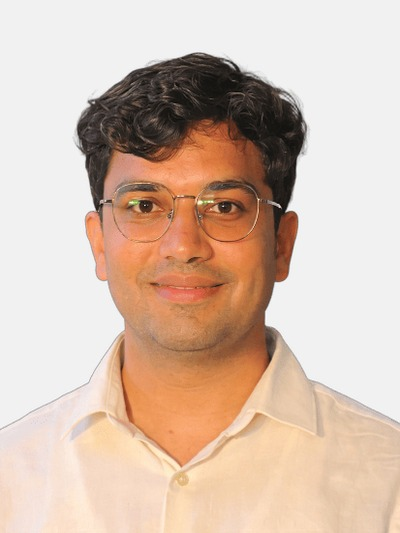
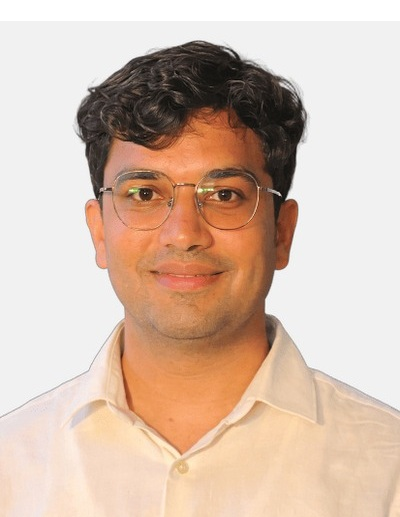
About Page

diff --git a/frontend/about.html b/frontend/about.html
@@ -56,43 +56,146 @@
     </section>
 
     <!-- ── Team ──────────────────────────────────────────────────────────── -->
-    <section class="lc-section">
+    <section class="lc-section lc-team-section">
         <div class="lc-container">
             <span class="lc-eyebrow-h">Team</span>
-            <h2 class="lc-h2">The people behind CarbonKrishi.</h2>
+            <h2 class="lc-h2" style="text-align: center;">Project Team Members</h2>
             <p class="lc-section-lede">Researchers, engineers, and agronomists working to decarbonise Indian rice.</p>
 
-            <div class="lc-team-grid">
-                <div class="lc-team-card">
-                    <div class="lc-team-img">
-                        <img src="/media/team/person-1.png" alt="Dr Ambika Selvaraj" />
+            <div style="margin-top: 1.5rem;">
+                <div class="lc-team-grid lc-team-grid-main" style="margin-top: 1rem;">
+                    <div class="lc-team-card">
+                        <div class="lc-team-img">
+                            <img src="/media/team/person-2.jpg" alt="Rahul Kumar Yadav" />
+                        </div>
+                        <h4>Rahul Kumar Yadav</h4>
+                        <p class="lc-team-role">PhD Researcher</p>
+                        <div class="lc-team-social">
+                            <a href="https://www.linkedin.com/in/rahul-kumar-yadav-894498214/" target="_blank"
+                                rel="noopener noreferrer" aria-label="Rahul Kumar Yadav LinkedIn">
+                                <svg width="14" height="14" fill="currentColor" viewBox="0 0 24 24">
+                                    <path
+                                        d="M19 0h-14c-2.761 0-5 2.239-5 5v14c0 2.761 2.239 5 5 5h14c2.762 0 5-2.239 5-5v-14c0-2.761-2.238-5-5-5zm-11 19h-3v-11h3v11zm-1.5-12.268c-.966 0-1.75-.79-1.75-1.764s.784-1.764 1.75-1.764 1.75.79 1.75 1.764-.783 1.764-1.75 1.764zm13.5 12.268h-3v-5.604c0-3.368-4-3.113-4 0v5.604h-3v-11h3v1.765c1.396-2.586 7-2.777 7 2.476v6.759z" />
+                                </svg>
+                            </a>
+                            <a href="mailto:cc24resch01001@iith.ac.in" class="lc-copy-email"
+                                data-email="cc24resch01001@iith.ac.in" aria-label="Rahul Kumar Yadav Email">
+                                <svg width="14" height="14" fill="none" stroke="currentColor" stroke-width="2"
+                                    stroke-linecap="round" stroke-linejoin="round" viewBox="0 0 24 24">
+                                    <path
+                                        d="M4 4h16c1.1 0 2 .9 2 2v12c0 1.1-.9 2-2 2H4c-1.1 0-2-.9-2-2V6c0-1.1.9-2 2-2z">
+                                    </path>
+                                    <polyline points="22,6 12,13 2,6"></polyline>
+                                </svg>
+                            </a>
+                        </div>
+                        <p class="lc-team-contrib">Contribution: Managed institutional collaborations with ICAR-IRRI and
+                            KVK, led primary data sourcing, and served as the key contact for field-level data
+                            collection.</p>
                     </div>
-                    <h4>Dr Ambika Selvaraj</h4>
-                    <p class="lc-team-role">Assistant Professor<br />Team Lead</p>
-                </div>
 
-                <div class="lc-team-card">
-                    <div class="lc-team-img">
-                        <img src="/media/team/person-2.jpg" alt="Rahul Kumar Yadav" />
+                    <div class="lc-team-card">
+                        <div class="lc-team-img">
+                            <img src="/media/team/person-3.png" alt="S C Vishweshvaran" />
+                        </div>
+                        <h4>S C Vishweshvaran</h4>
+                        <p class="lc-team-role">LCA Researcher</p>
+                        <div class="lc-team-social">
+                            <a href="https://www.linkedin.com/in/vishweshvaran-s-c-41b3762ab/" target="_blank"
+                                rel="noopener noreferrer" aria-label="S C Vishweshvaran LinkedIn">
+                                <svg width="14" height="14" fill="currentColor" viewBox="0 0 24 24">
+                                    <path
+                                        d="M19 0h-14c-2.761 0-5 2.239-5 5v14c0 2.761 2.239 5 5 5h14c2.762 0 5-2.239 5-5v-14c0-2.761-2.238-5-5-5zm-11 19h-3v-11h3v11zm-1.5-12.268c-.966 0-1.75-.79-1.75-1.764s.784-1.764 1.75-1.764 1.75.79 1.75 1.764-.783 1.764-1.75 1.764zm13.5 12.268h-3v-5.604c0-3.368-4-3.113-4 0v5.604h-3v-11h3v1.765c1.396-2.586 7-2.777 7 2.476v6.759z" />
+                                </svg>
+                            </a>
+                            <a href="mailto:scvishweshvaran@gmail.com" class="lc-copy-email"
+                                data-email="scvishweshvaran@gmail.com" aria-label="S C Vishweshvaran Email">
+                                <svg width="14" height="14" fill="none" stroke="currentColor" stroke-width="2"
+                                    stroke-linecap="round" stroke-linejoin="round" viewBox="0 0 24 24">
+                                    <path
+                                        d="M4 4h16c1.1 0 2 .9 2 2v12c0 1.1-.9 2-2 2H4c-1.1 0-2-.9-2-2V6c0-1.1.9-2 2-2z">
+                                    </path>
+                                    <polyline points="22,6 12,13 2,6"></polyline>
+                                </svg>
+                            </a>
+                        </div>
+                        <p class="lc-team-contrib">Contribution: Conceptualized the product's framework, designed the
+                            Life Cycle Assessment (LCA) systems for rice cultivation, and developed the website’s
+                            analytical tools and technical backbone.</p>
                     </div>
-                    <h4>Rahul Kumar Yadav</h4>
-                    <p class="lc-team-role">PhD Researcher<br />Team Member</p>
-                </div>
 
-                <div class="lc-team-card">
-                    <div class="lc-team-img">
-                        <img src="/media/team/person-3.png" alt="Vishwa S" />
+                    <div class="lc-team-card">
+                        <div class="lc-team-img">
+                            <img src="/media/team/person-4.png" alt="Jayesh Singh" />
+                        </div>
+                        <h4>Jayesh Singh</h4>
+                        <p class="lc-team-role">PhD Researcher</p>
+                        <div class="lc-team-social">
+                            <a href="https://www.linkedin.com/in/jayeshsingh1/" target="_blank"
+                                rel="noopener noreferrer" aria-label="Jayesh Singh LinkedIn">
+                                <svg width="14" height="14" fill="currentColor" viewBox="0 0 24 24">
+                                    <path
+                                        d="M19 0h-14c-2.761 0-5 2.239-5 5v14c0 2.761 2.239 5 5 5h14c2.762 0 5-2.239 5-5v-14c0-2.761-2.238-5-5-5zm-11 19h-3v-11h3v11zm-1.5-12.268c-.966 0-1.75-.79-1.75-1.764s.784-1.764 1.75-1.764 1.75.79 1.75 1.764-.783 1.764-1.75 1.764zm13.5 12.268h-3v-5.604c0-3.368-4-3.113-4 0v5.604h-3v-11h3v1.765c1.396-2.586 7-2.777 7 2.476v6.759z" />
+                                </svg>
+                            </a>
+                            <a href="mailto:id25resch01003@iith.ac.in" class="lc-copy-email"
+                                data-email="id25resch01003@iith.ac.in" aria-label="Jayesh Singh Email">
+                                <svg width="14" height="14" fill="none" stroke="currentColor" stroke-width="2"
+                                    stroke-linecap="round" stroke-linejoin="round" viewBox="0 0 24 24">
+                                    <path
+                                        d="M4 4h16c1.1 0 2 .9 2 2v12c0 1.1-.9 2-2 2H4c-1.1 0-2-.9-2-2V6c0-1.1.9-2 2-2z">
+                                    </path>
+                                    <polyline points="22,6 12,13 2,6"></polyline>
+                                </svg>
+                            </a>
+                        </div>
+                        <p class="lc-team-contrib">Contribution: Enhanced the project by transforming it into a
+                            professional-grade platform with an engaging user interface, integrated dashboards, and
+                            refined website design.</p>
                     </div>
-                    <h4>Vishwa S</h4>
-                    <p class="lc-team-role">LCA Researcher<br />Team Member</p>
                 </div>
+            </div>
 
-                <div class="lc-team-card">
-                    <div class="lc-team-img">
-                        <img src="/media/team/person-4.png" alt="Jayesh Singh" />
+            <div style="margin-top: 2rem;">
+                <h2 class="lc-h2" style="text-align: center;">Project Guide</h2>
+                <div class="lc-team-grid lc-team-grid-guide" style="margin-top: 1rem;">
+                    <div class="lc-team-card">
+                        <div class="lc-team-img">
+                            <img src="/media/team/person-1.png" alt="Dr Ambika Selvaraj" />
+                        </div>
+                        <h4>Dr Ambika Selvaraj</h4>
+                        <p class="lc-team-role">Assistant Professor<br />IIT Hyderabad</p>
+                        <div class="lc-team-social">
+                            <a href="https://www.linkedin.com/in/drambikas/" target="_blank" rel="noopener noreferrer"
+                                aria-label="Dr Ambika Selvaraj LinkedIn">
+                                <svg width="14" height="14" fill="currentColor" viewBox="0 0 24 24">
+                                    <path
+                                        d="M19 0h-14c-2.761 0-5 2.239-5 5v14c0 2.761 2.239 5 5 5h14c2.762 0 5-2.239 5-5v-14c0-2.761-2.238-5-5-5zm-11 19h-3v-11h3v11zm-1.5-12.268c-.966 0-1.75-.79-1.75-1.764s.784-1.764 1.75-1.764 1.75.79 1.75 1.764-.783 1.764-1.75 1.764zm13.5 12.268h-3v-5.604c0-3.368-4-3.113-4 0v5.604h-3v-11h3v1.765c1.396-2.586 7-2.777 7 2.476v6.759z" />
+                                </svg>
+                            </a>
+                            <a href="https://sites.google.com/ce.iith.ac.in/iith-ambika" target="_blank"
+                                rel="noopener noreferrer" aria-label="Dr Ambika Selvaraj Website">
+                                <svg width="14" height="14" fill="none" stroke="currentColor" stroke-width="2"
+                                    stroke-linecap="round" stroke-linejoin="round" viewBox="0 0 24 24">
+                                    <circle cx="12" cy="12" r="10"></circle>
+                                    <line x1="2" y1="12" x2="22" y2="12"></line>
+                                    <path
+                                        d="M12 2a15.3 15.3 0 0 1 4 10 15.3 15.3 0 0 1-4 10 15.3 15.3 0 0 1-4-10 15.3 15.3 0 0 1 4-10z">
+                                    </path>
+                                </svg>
+                            </a>
+                            <a href="mailto:ambika@ce.iith.ac.in" class="lc-copy-email"
+                                data-email="ambika@ce.iith.ac.in" aria-label="Dr Ambika Selvaraj Email">
+                                <svg width="14" height="14" fill="none" stroke="currentColor" stroke-width="2"
+                                    stroke-linecap="round" stroke-linejoin="round" viewBox="0 0 24 24">
+                                    <path
+                                        d="M4 4h16c1.1 0 2 .9 2 2v12c0 1.1-.9 2-2 2H4c-1.1 0-2-.9-2-2V6c0-1.1.9-2 2-2z">
+                                    </path>
+                                    <polyline points="22,6 12,13 2,6"></polyline>
+                                </svg>
+                            </a>
+                        </div>
                     </div>
-                    <h4>Jayesh Singh</h4>
-                    <p class="lc-team-role">PhD Researcher<br />Team Member</p>
                 </div>
             </div>
         </div>

diff --git a/frontend/landing.css b/frontend/landing.css
@@ -630,7 +630,7 @@ img {
   overflow: hidden;
   /* Top padding clears the fixed-position floating nav pill (~58px tall
        + ~1.25rem top offset). */
-  padding: clamp(6rem, 9vw, 8rem) 0 clamp(2rem, 4vw, 3rem);
+  padding: clamp(6rem, 9vw, 8rem) 0 0;
   text-align: center;
 }
 .lc-page-head::before {
@@ -1151,8 +1151,40 @@ img {
   gap: clamp(1.25rem, 2.5vw, 2rem);
   margin-top: clamp(1.5rem, 3vw, 2.5rem);
 }
+.lc-team-section .lc-container {
+  text-align: center;
+}
+.lc-team-section .lc-section-lede {
+  margin-left: auto;
+  margin-right: auto;
+}
+.lc-team-section .lc-h3 {
+  text-align: center;
+  margin-left: auto;
+  margin-right: auto;
+}
+.lc-team-section .lc-team-grid-main {
+  grid-template-columns: repeat(3, minmax(0, 1fr));
+  max-width: 980px;
+  margin-left: auto;
+  margin-right: auto;
+  justify-items: center;
+}
+.lc-team-section .lc-team-grid-guide {
+  grid-template-columns: minmax(0, 280px);
+  max-width: 280px;
+  margin-left: auto;
+  margin-right: auto;
+  justify-items: center;
+}
+.lc-team-section .lc-team-card {
+  width: 100%;
+}
 .lc-team-card {
   text-align: center;
+  display: flex;
+  flex-direction: column;
+  height: 100%;
 }
 .lc-team-img {
   width: 100%;
@@ -1186,12 +1218,60 @@ img {
   font-size: 0.85rem;
   color: #5a706a;
 }
-
-:root[data-theme="dark"] .lc-team-card h4 {
-  color: #ffffff;
+.lc-team-social {
+  margin-top: 0.75rem;
+  display: flex;
+  justify-content: center;
+  gap: 0.8rem;
 }
-:root[data-theme="dark"] .lc-team-role {
-  color: rgba(255, 255, 255, 0.55);
+.lc-team-social a {
+  display: inline-flex;
+  align-items: center;
+  justify-content: center;
+  width: 32px;
+  height: 32px;
+  background: rgba(15, 118, 110, 0.08);
+  border-radius: 50%;
+  color: var(--lc-leaf-2);
+  font-size: 0.9rem;
+  transition: all 0.2s ease;
+}
+.lc-team-social a:hover {
+  background: var(--lc-leaf-2);
+  color: white;
+  transform: translateY(-2px);
+}
+:root[data-theme="dark"] .lc-team-social a {
+  background: rgba(255, 255, 255, 0.1);
+  color: var(--lc-leaf-3);
+}
+:root[data-theme="dark"] .lc-team-social a:hover {
+  background: var(--lc-leaf-3);
+  color: #052424;
+}
+.lc-team-contrib {
+  margin: 1.1rem 0 0;
+  font-family: "SuisseIntl", "Inter", system-ui, sans-serif !important;
+  font-size: 0.85rem;
+  line-height: 1.6;
+  color: #2f463f;
+  text-align: center;
+  hyphens: auto;
+  overflow-wrap: break-word;
+  width: 100%;
+  padding: 0.85rem 1rem;
+  background: #f0f7f3;
+  border-left: 3px solid var(--lc-leaf-2);
+  border-radius: 0 12px 12px 0;
+  box-shadow: inset 0 0 10px rgba(15, 118, 110, 0.03);
+  flex: 1;
+}
+
+:root[data-theme="dark"] .lc-team-contrib {
+  background: rgba(255, 255, 255, 0.04);
+  color: rgba(255, 255, 255, 0.75);
+  border-left-color: var(--lc-leaf-3);
+  box-shadow: none;
 }
 :root[data-theme="dark"] .lc-team-img {
   background: rgba(255, 255, 255, 0.06);
@@ -1264,17 +1344,48 @@ img {
 /* ── Final CTA section ───────────────────────────────────────────────── */
 .lc-final-cta {
   margin: clamp(3rem, 6vw, 5rem) 0;
-  background: linear-gradient(135deg, var(--lc-leaf-1), var(--lc-leaf-2));
+  background: linear-gradient(135deg, #121a16, #052424);
   color: white;
-  border-radius: 28px;
-  padding: clamp(2rem, 4vw, 3.25rem);
-  display: grid;
-  grid-template-columns: 1.2fr auto;
-  gap: clamp(1rem, 2vw, 1.75rem);
+  border-radius: clamp(1.5rem, 3vw, 2.5rem);
+  padding: clamp(2rem, 5vw, 4rem);
+  display: flex;
+  flex-direction: row;
   align-items: center;
-  box-shadow: 0 30px 60px rgba(15, 118, 110, 0.3);
+  justify-content: space-between;
+  gap: 2rem;
+  box-shadow: 0 40px 90px rgba(0, 0, 0, 0.25);
   position: relative;
   overflow: hidden;
+}
+
+/* ── Toast Notification ──────────────────────────────────────────────── */
+.lc-toast {
+  position: fixed;
+  bottom: 2rem;
+  left: 50%;
+  transform: translateX(-50%) translateY(100px);
+  background: #0f1f17;
+  color: white;
+  padding: 0.85rem 1.5rem;
+  border-radius: 999px;
+  font-size: 0.9rem;
+  font-weight: 600;
+  box-shadow: 0 10px 30px rgba(0, 0, 0, 0.25);
+  z-index: 1000;
+  opacity: 0;
+  transition: all 0.3s cubic-bezier(0.175, 0.885, 0.32, 1.275);
+  pointer-events: none;
+  border: 1px solid rgba(255, 255, 255, 0.1);
+}
+
+.lc-toast.show {
+  transform: translateX(-50%) translateY(0);
+  opacity: 1;
+}
+
+:root[data-theme="dark"] .lc-toast {
+  background: #c5e862;
+  color: #0f1f17;
 }
 .lc-final-cta::before {
   content: "";
@@ -1377,7 +1488,9 @@ img {
   width: auto;
   height: auto;
   opacity: 0.85;
-  transition: opacity 0.3s ease, filter 0.3s ease;
+  transition:
+    opacity 0.3s ease,
+    filter 0.3s ease;
   filter: grayscale(0.4);
 }
 

diff --git a/frontend/js/landing.js b/frontend/js/landing.js
@@ -12,4 +12,38 @@
     document.querySelectorAll(".lc-nav-link").forEach((link) => {
         link.addEventListener("click", () => document.body.classList.remove("lc-menu-open"));
     });
+
+    // ── Email copy-to-clipboard ──────────────────────────────────────────
+    const copyEmailLinks = document.querySelectorAll(".lc-copy-email");
+    copyEmailLinks.forEach(link => {
+        link.addEventListener("click", (e) => {
+            e.preventDefault();
+            const email = link.getAttribute("data-email");
+            if (!email) return;
+
+            navigator.clipboard.writeText(email).then(() => {
+                // Visual feedback: brief toast notification
+                showToast(`Copied!`);
+            }).catch(err => {
+                console.error('Could not copy email:', err);
+                // Fallback: try to open mailto if clipboard fails
+                window.location.href = link.href;
+            });
+        });
+    });
+
+    function showToast(message) {
+        let toast = document.querySelector(".lc-toast");
+        if (!toast) {
+            toast = document.createElement("div");
+            toast.className = "lc-toast";
+            document.body.appendChild(toast);
+        }
+        toast.textContent = message;
+        toast.classList.add("show");
+        
+        setTimeout(() => {
+            toast.classList.remove("show");
+        }, 2000);
+    }
 })();
